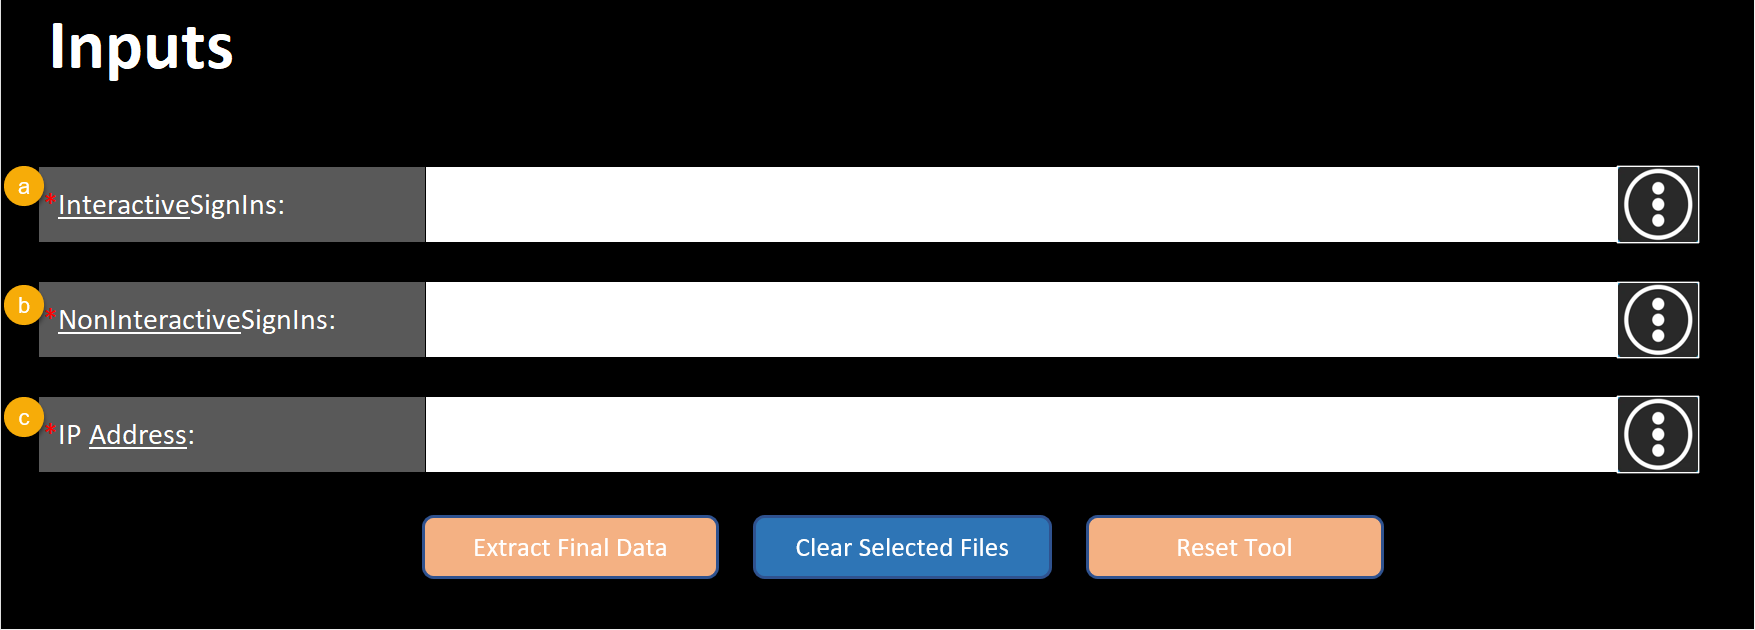
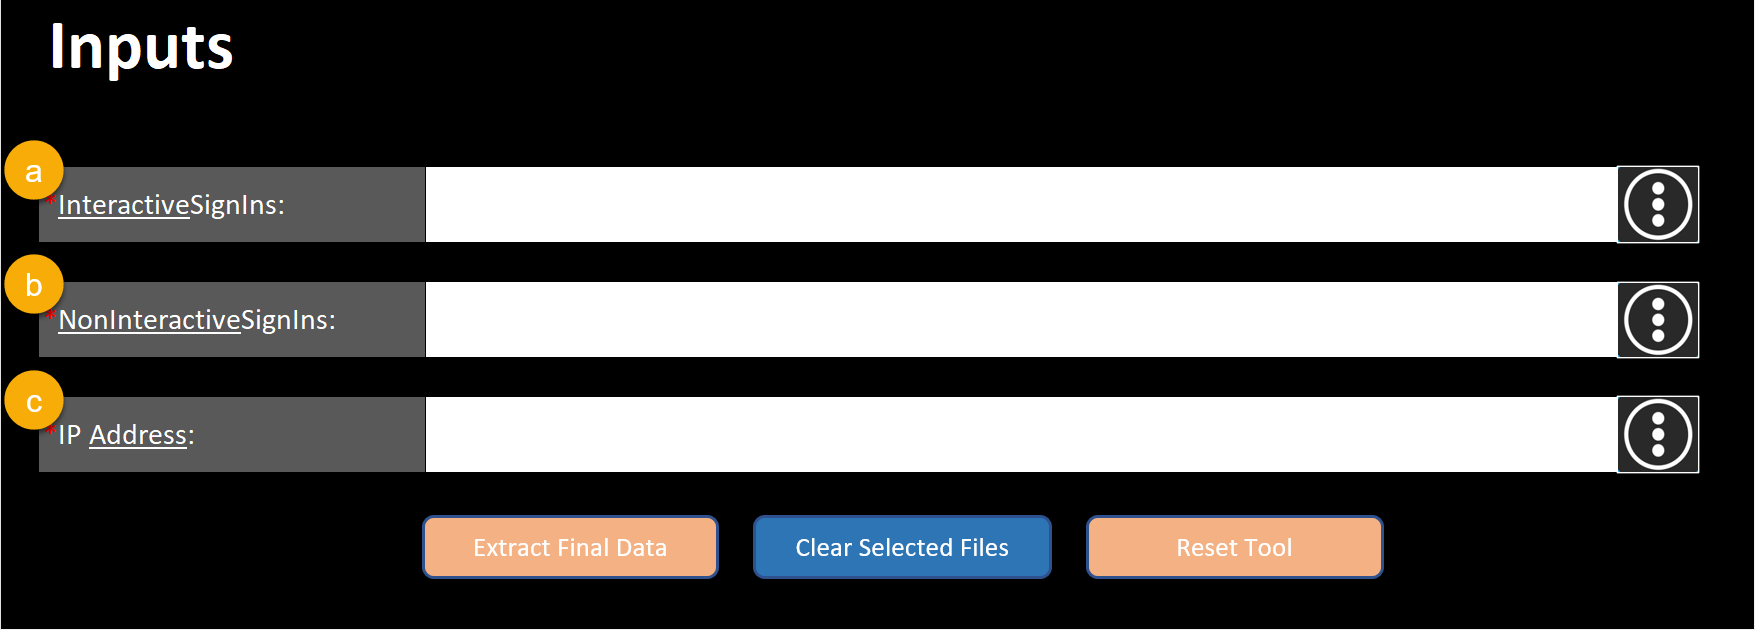
hwfe updates continued...

Changed region(s): [[0.0, 0.573, 0.0615, 0.6937], [0.0, 0.3921, 0.0615, 0.5127], [0.0, 0.2111, 0.0615, 0.3317]]

diff --git a/Viva/solutions/hybrid-workforce-experience-template.md b/Viva/solutions/hybrid-workforce-experience-template.md
@@ -18,7 +18,7 @@ audience: Admin
 
 # Step 2. Use the automated OnsiteDays template
 
-In this step of the Hybrid workforce experience OnsiteDays solution, you'll:
+In this step of the Hybrid workforce experience report OnsiteDays solution, you'll:
 
 > [!div class="checklist"]
 >
@@ -29,19 +29,17 @@ Now that you’ve prepared your source files, you’re ready to start using the 
 
 ## Template structure
 
-The template contains the following sheets: 
+The template contains the following sheets:
 
-* **Inputs**: This sheet accepts the source files required to generate **OnsiteDays** for each user. You’ll upload the required .csv files here, as described in the next section.
+|  | Sheet | Description | Action required? |
+|---|---|---|---|
+|  | **Inputs** | Accepts the source files<sup>1</sup> required to generate **OnsiteDays** for each user. You’ll upload the required .csv files here, as described in the next section. | [Yes](#upload-files) |
+|  | **Final Report** | Provides the data with **PersonID**, **EffectiveDate**, and **OnsiteDays** attributes, which you'll either upload to Viva Insights or append to an existing organizational data file. | No |
+|  | **Database** | Performs all the transformations required to determine **OnsiteDays** from interactive and non-interactive .csv file data you upload in the **Inputs** sheet. | No | 
+|  | **IP Addresses** | Populates the data from the IP address file<sup>1</sup> you upload in the **Inputs** sheet. | No |
+|  | **TimeZoneData** | Populates with the metadata of all the time zones and offsets, which is used to convert UTC datetime to users’ local datetime. This data is then used to transform dates in the **Database** sheet. | No |
 
-    [Creating source files](hybrid-workforce-experience-source-files.md) provides guidance on creating the Azure event log files.
-
-* **Final Report**: This sheet provides the data with **PersonID**,**EffectiveDate**, and **OnsiteDays** attributes, which you'll either upload or append to an existing organizational data file. You don’t need to perform any actions in this sheet.
-
-* **Database**: This sheet performs all the transformations required to determine **OnsiteDays** from interactive and non-interactive .csv file data you upload in the **Inputs** sheet. You don’t need to perform any actions in this sheet.
-
-* **IP Addresses**: This sheet populates the data from the IP address file you upload in the Inputs sheet. You don’t need to perform any actions in this sheet.
-
-* **TimeZoneData**: This sheet auto-populates with the metadata of all the time zones and offsets, which is used to convert UTC datetime to users’ local datetime. This data is used to transform dates in database sheet. You don’t need perform any actions in this sheet.
+<sup> 1. [Step 1. Generate source files](hybrid-workforce-experience-source-files.md) provides guidance on creating the Azure AD event log and IP address files.</sup>
 
 ## How to use the template
 
@@ -54,21 +52,20 @@ The template contains the following sheets:
 3. On the **Inputs** sheet:
     1. In **InteractiveSignins** section, upload the interactive event log .csv files generated from Azure AD.
     1. In the **NonInteractiveSignins** section, upload the non-interactive event log .csv files generated from Azure AD.
-    1. In the **IP Address** section, upload the IP addresses list.
+    1. In the **IP Address** section, upload the IP addresses list you created.
 
-    ![Screenshot that shows the Inputs page with Interactive, Noninteractive, and IP Address highlighted on the field label and within the file names.](./images/hwfe-inputs-a-b-c.png)
-
+    ![Screenshot that shows the Inputs page with Interactive, Noninteractive, and IP Address highlighted on the field label and within the file names.](./images/hwfe-inputs-a-b-c1.png)
 
     >[!Important]
-    > Don’t alter any columns or attributes that are downloaded from Azure AD.
-    
-#### About file names 
+    > Don’t alter any columns or attributes downloaded from Azure AD.
 
-Each file name needs to include the keyword that’s underlined in the file attribute field, beneath “Inputs.” Including the right keyword makes sure the correct file is being uploaded. Failing to comply with this naming standard will result in a wrong-file error. Specifically:
+#### About file names
 
-* **InteractiveSignIns**: This field accepts the interactive sign-in .csv file you generated in Creating source files. Make sure the file name contains the underlined keyword, which is “Interactive.” 
+Each file name needs to include the keyword that’s underlined in the file attribute field, beneath “Inputs.” Including the right keyword makes sure you're uploading the correct file. Failing to comply with this naming standard will result in a wrong-file error. Specifically:
+
+* **InteractiveSignIns**: This field accepts the interactive sign-in .csv file you generated in [Creating source files](hybrid-workforce-experience-source-files.md). Make sure the file name contains the underlined keyword, which is “Interactive.” 
 * **NonInteractiveSignins**: This field accepts the non-interactive sign-in .csv file you generated in [Creating source files](hybrid-workforce-experience-source-files.md). Make sure the file name contains the underlined keyword, which is “NonInteractive.”
-* **IP Address**: This field accepts the list of office IP addresses you generated in Creating source files. Make sure the file name has underlined keyword, which is “Address.”
+* **IP Address**: This field accepts the list of office IP addresses you generated in [Creating source files](hybrid-workforce-experience-source-files.md). Make sure the file name has underlined keyword, which is “Address.”
 
     ![Screenshot that shows the Inputs page with Interactive, Noninteractive, and IP Address highlighted on the field label and within the file names.](./images/hwfe-inputs.png)
 

diff --git a/Viva/solutions/hybrid-workforce-experience-source-files.md b/Viva/solutions/hybrid-workforce-experience-source-files.md
@@ -18,7 +18,7 @@ audience: Admin
 
 # Step 1. Generate source files
 
-In this step of the Hybrid workforce experience OnsiteDays solution, you'll:
+In this step of the Hybrid workforce experience report OnsiteDays solution, you'll:
 
 > [!div class="checklist"]
 >
@@ -27,7 +27,7 @@ In this step of the Hybrid workforce experience OnsiteDays solution, you'll:
 
 ## Event logs
 
-The first source files you'll need to generate are event logs. which need to be downloaded as .csvs. To do so:
+The first source files you'll need to generate are event logs, which need to be downloaded as .csvs. To do so:
 
 1. Sign in to the [Azure portal](https://portal.azure.com/#home) and navigate to Azure AD.
 

diff --git a/Viva/solutions/hybrid-workforce-experience-intro.md b/Viva/solutions/hybrid-workforce-experience-intro.md
@@ -29,7 +29,7 @@ In this introductory article, you'll:
 > [!div class="checklist"]
 >
 > * Learn what the Hybrid workforce experience report from Microsoft Viva Insights does and how it can help your organization as it transitions to hybrid working modes.
-> * Get an overview of the solution and which steps you'll need to complete.
+> * Get an overview of the solution and the steps you'll need to complete.
 
 ## Background
 
